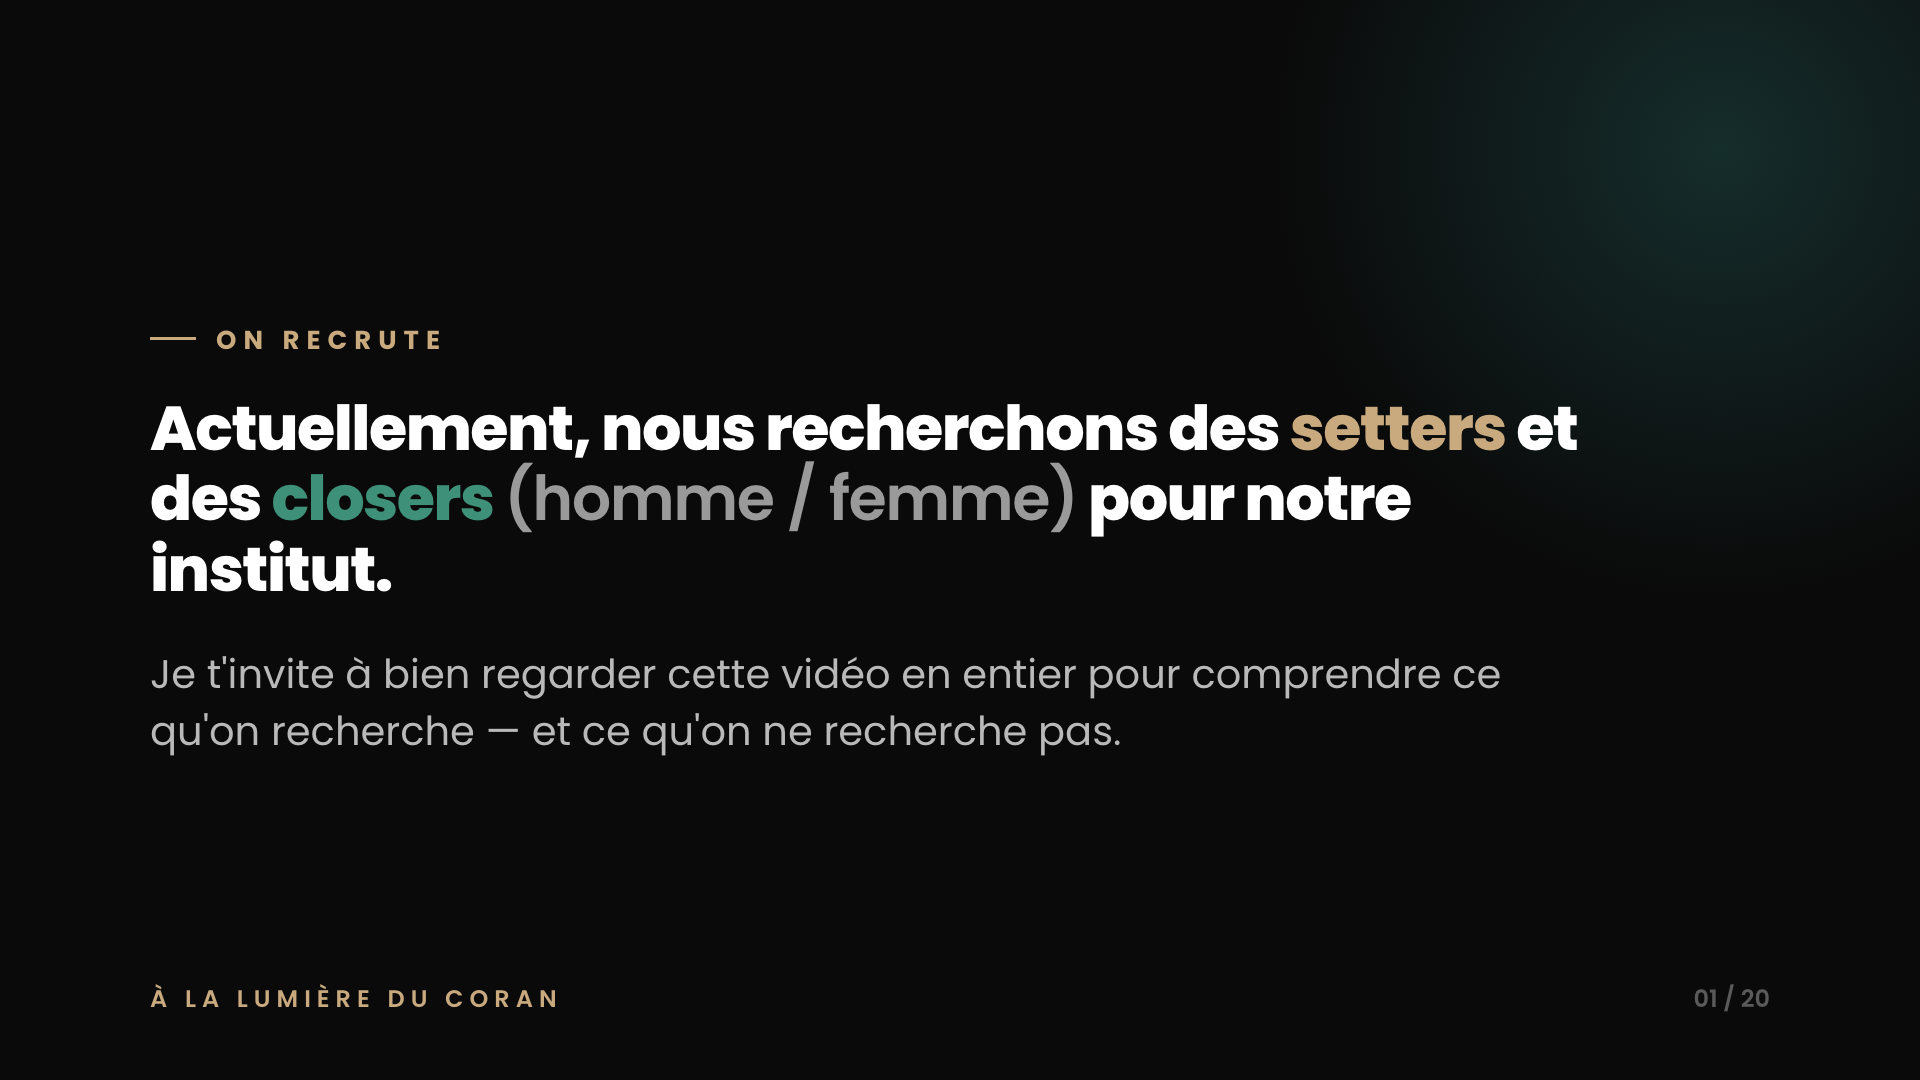
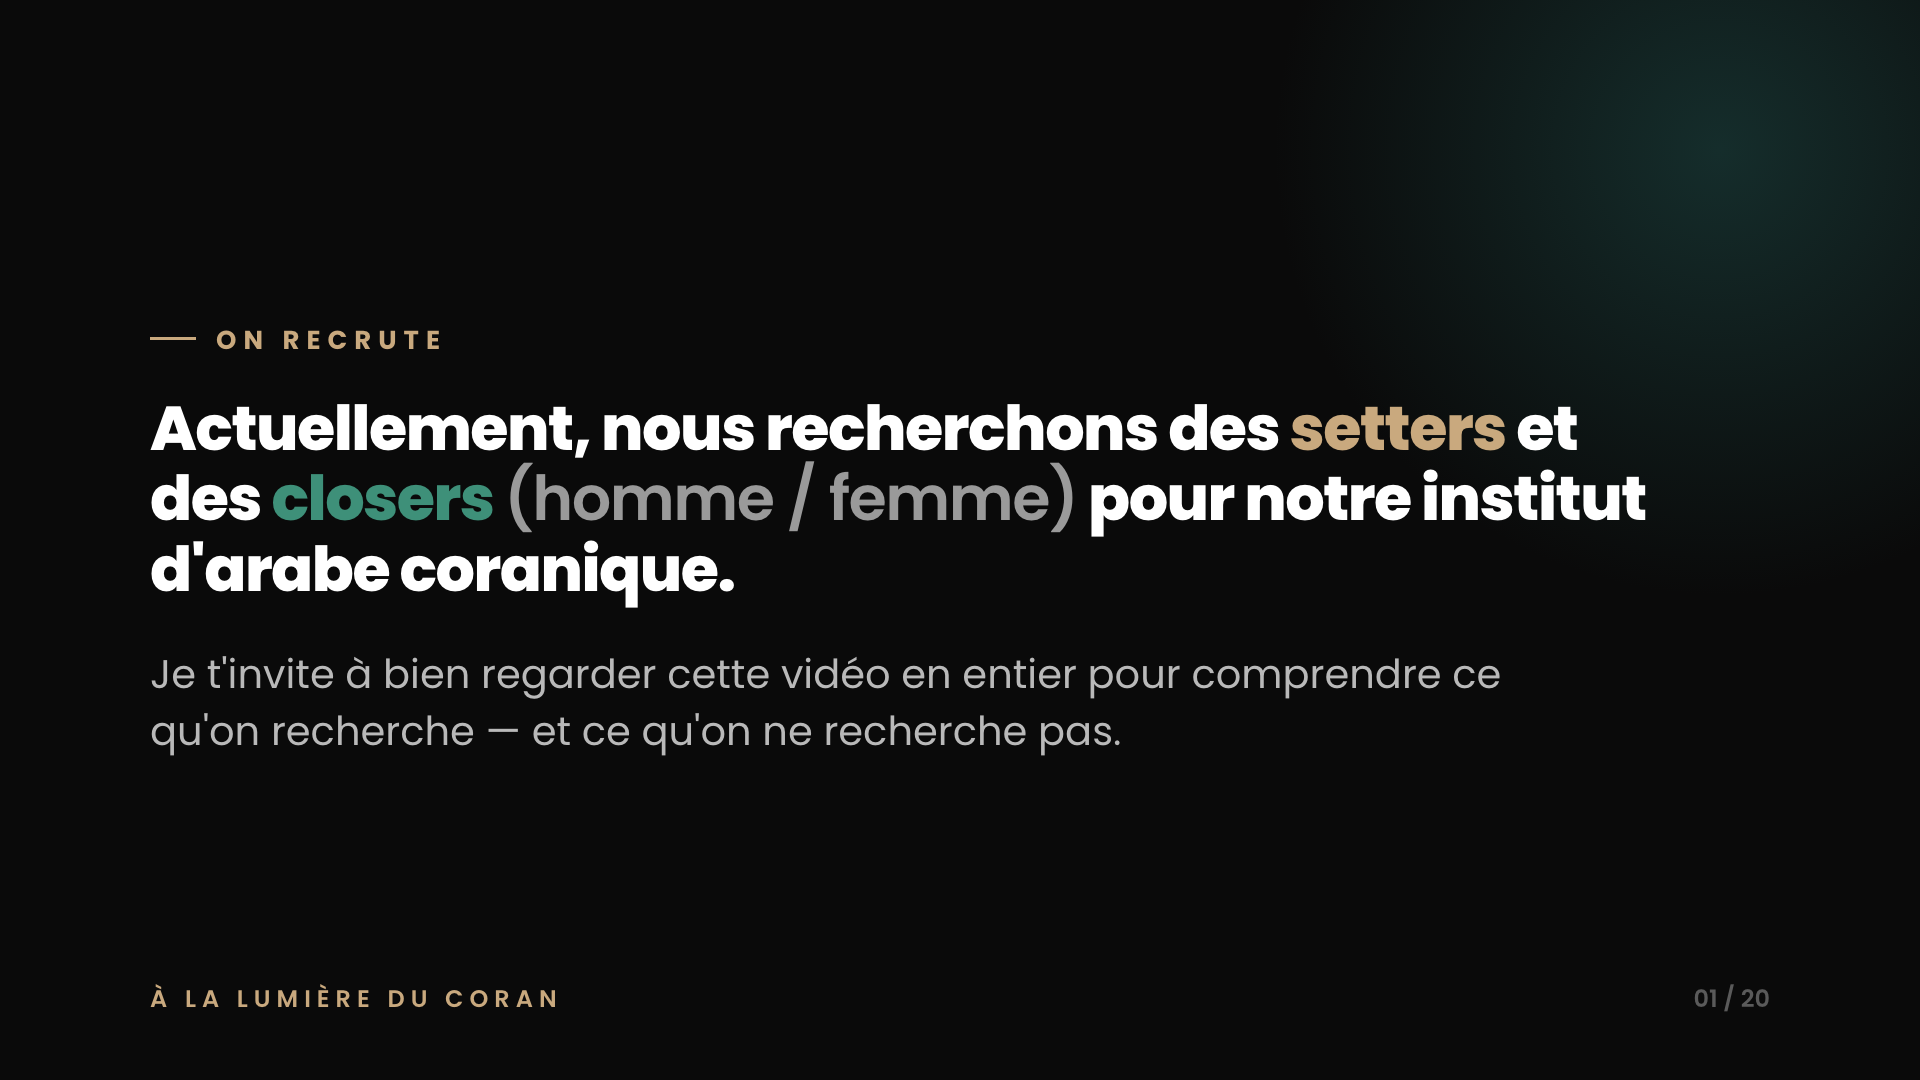
Slide 1 : institut d'arabe coranique

Changed region(s): [[0.0625, 0.4889, 0.375, 0.55], [0.7188, 0.4278, 0.875, 0.4889]]

diff --git a/slides/deck.html b/slides/deck.html
@@ -56,7 +56,7 @@
 <div id="root"></div>
 <script>
 const S = [
-  {k:"On recrute", sm:true, t:`Actuellement, nous recherchons des <span class="g">setters</span> et des <span class="v">closers</span> <span style="color:#9a9a9a;font-weight:600">(homme / femme)</span> pour notre institut.`, sub:`Je t'invite à bien regarder cette vidéo en entier pour comprendre ce qu'on recherche — et ce qu'on ne recherche pas.`},
+  {k:"On recrute", sm:true, t:`Actuellement, nous recherchons des <span class="g">setters</span> et des <span class="v">closers</span> <span style="color:#9a9a9a;font-weight:600">(homme / femme)</span> pour notre institut d'arabe coranique.`, sub:`Je t'invite à bien regarder cette vidéo en entier pour comprendre ce qu'on recherche — et ce qu'on ne recherche pas.`},
   {k:"Qui suis-je", t:`Moi, c'est <span class="g">Thomas</span>.`, bullets:[`Professeur d'arabe depuis plus de <b>4 ans</b>`,`Formé par <b>Nouman Ali Khan</b>, l'un des profs d'arabe les plus connus au monde`]},
   {k:"Mon parcours", t:`J'avais tout essayé pour <span class="g">apprendre l'arabe</span>…`, sub:`Rien n'avait fonctionné, jusqu'à ce que je découvre cette méthode. J'ai donc vécu exactement ce que vivent les élèves qu'on accompagne — je connais leurs blocages et ce dont ils ont besoin.`},
   {k:"L'institut", center:true, sm:true, t:`L'objectif de notre institut est de devenir <span class="g">la référence numéro 1</span> de l'apprentissage de l'arabe.`},
